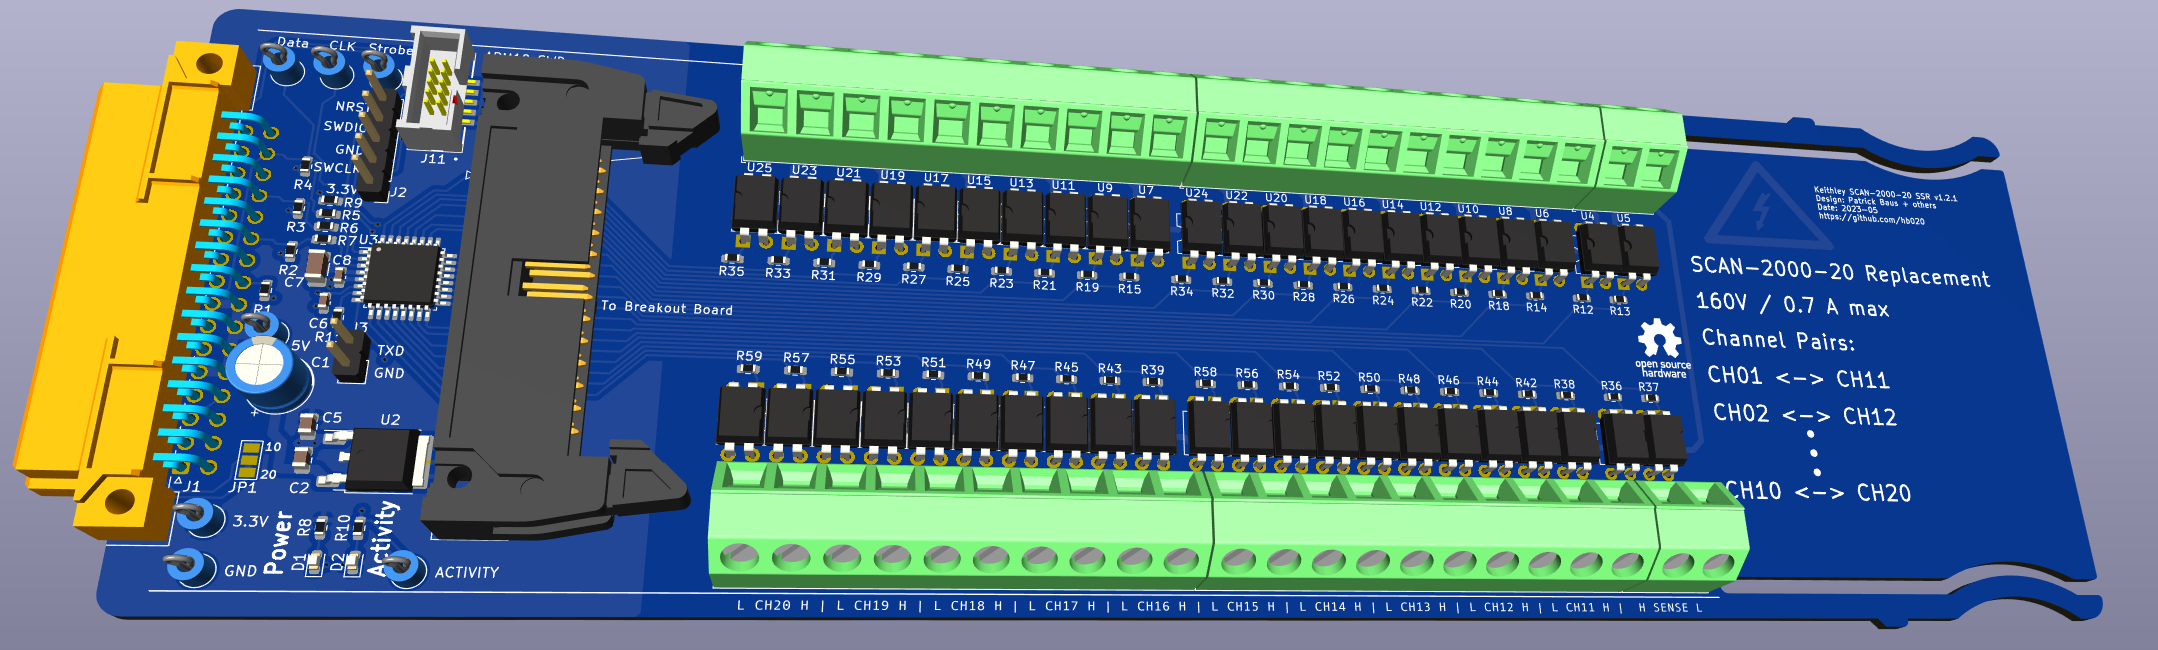
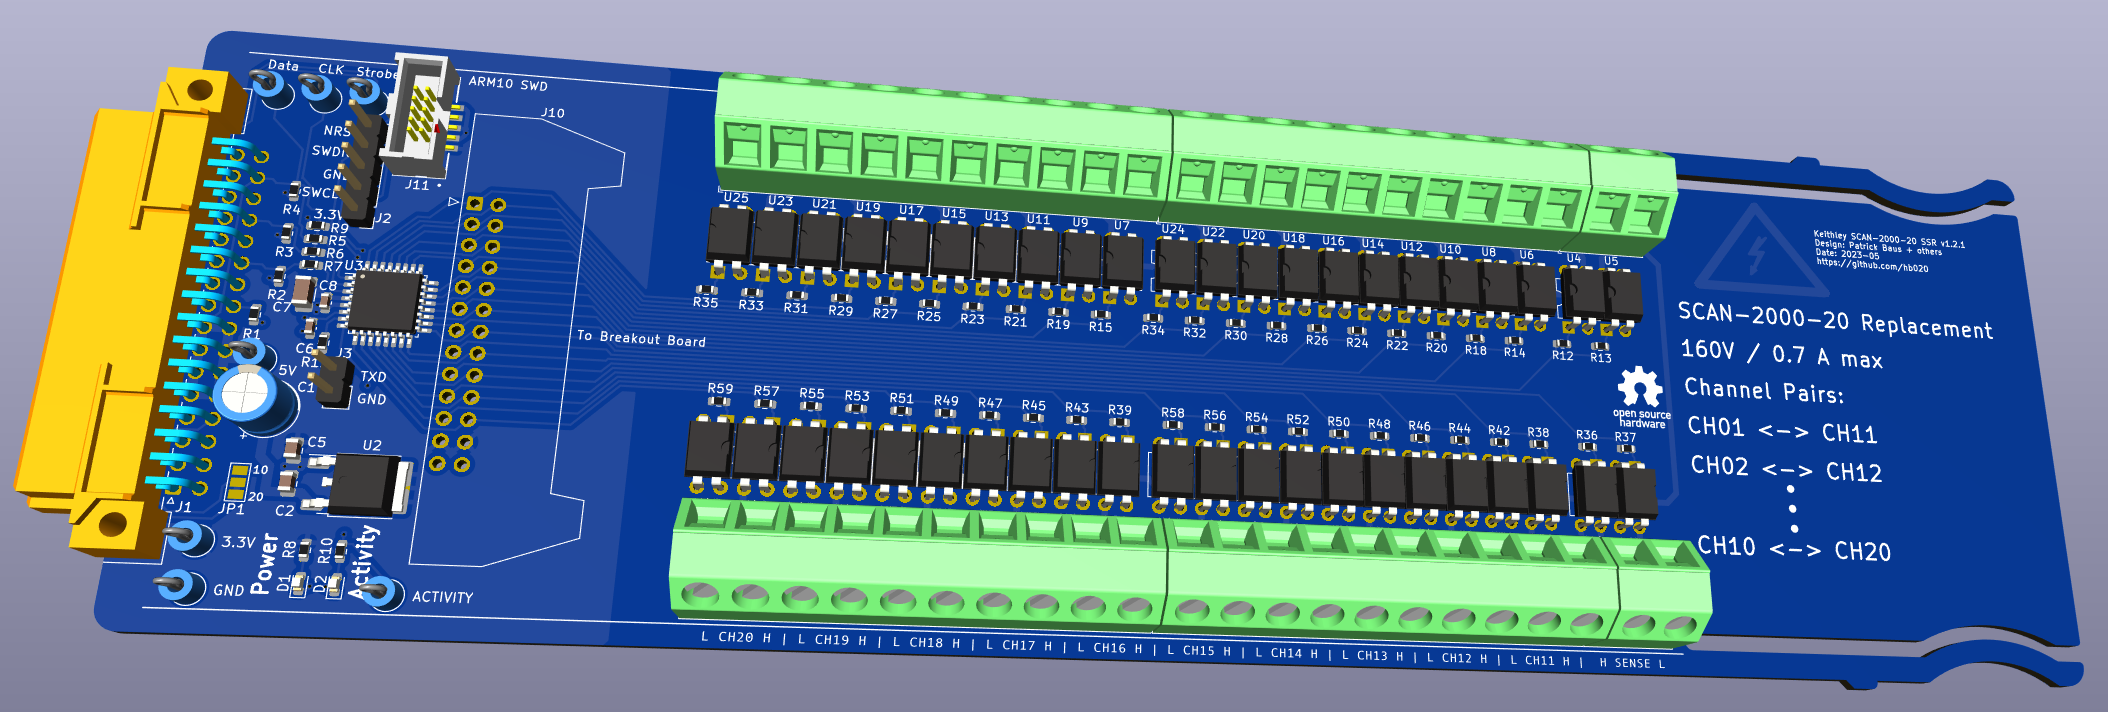
nicer images

diff --git a/README.md b/README.md
@@ -3,16 +3,20 @@ Keithley SCAN2000 SSR Replacement
 
 This repository contains the KiCAD PCB project files for a Keithley SCAN2000 replacement card. It uses solid-state relays instead of mechanical relays.
 
+
+![Keithley SCAN2000 board](images/pcb.png)
+
 It has a header for a flat cable connector that can be used on a breakout board:
-for example for leds that indicate which input is active (< 4mA please), or for allowing the relays and input terminals to be moved to an external box.
+for example for leds that indicate which input is active (< 4mA please), or for allowing the relays and input terminals to be moved to an external box, like this:
+
+![Keithley SCAN2000 board, for breakout](images/pcb_for_breakout.png)
+![breakout case](images/breakout_case.png)
 
 For a breakout board see [here](https://github.com/hb020/SCAN2000_breakout).
 
 Silk screen has also been somewhat improved: added explanations of the screw terminal use.
 
 Programming/debugging can be done via 2.54mm pin header, or via a standard ARM10 SWD connector. The latter has enough space around it for the use of a STDC14 connector.
-
-![Keithley SCAN2000 board](images/pcb.png)
 
 |DMM|Tested|Works|Note|
 |--|--|--|--|
